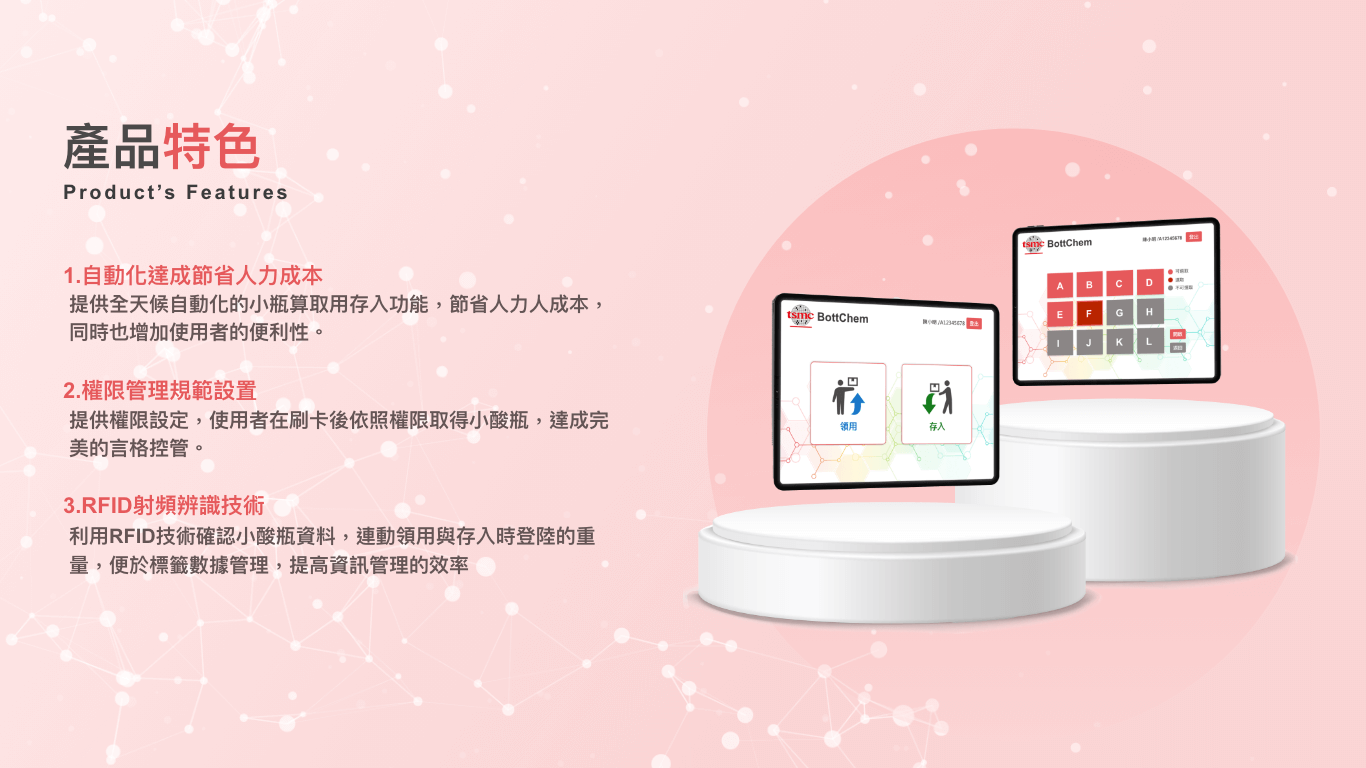
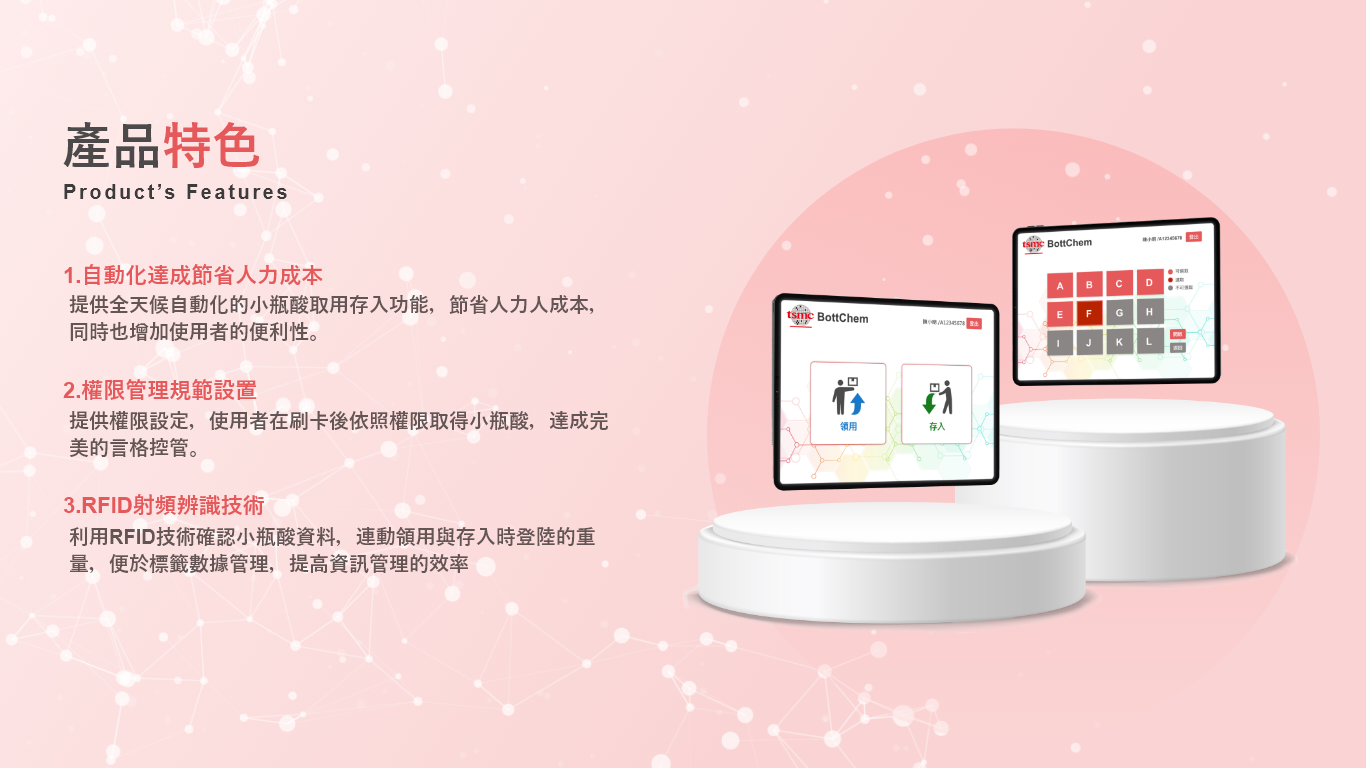
v0721

diff --git a/workPage_bottChem.html b/workPage_bottChem.html
@@ -57,9 +57,9 @@
 						<p>隨著科技日新月異的發展，減少人事成本、效益最大化已是企業管理追求經濟效益的首要目標之一，小瓶酸系統多用於研發室與實驗室管理特殊原料﹝如：酸類、高化學反應液體﹞，利用全自動系統的設計，並結合RFID 的技術，達成安全的24小時使用者領存控管。</p>
 						<h2>產品介紹</h2>
 						<h3>1.自動化達成節省人力成本</h3>
-						<p>提供全天候自動化的小瓶算取用存入功能，節省人力人成本，同時也增加使用者的便利性。</p>
+						<p>提供全天候自動化的小瓶酸取用存入功能，節省人力人成本，同時也增加使用者的便利性。</p>
 						<h3>2.權限管理規範設置</h3>
-						<p>提供權限設定，使用者在刷卡後依照權限取得小酸瓶，達成完美的言格控管。</p>
+						<p>提供權限設定，使用者在刷卡後依照權限取得小瓶酸，達成完美的言格控管。</p>
 						<h3>3.RFID射頻辨識技術</h3>
 						<p>利用RFID技術確認小酸瓶資料，連動領用與存入時登陸的重量，便於標籤數據管理，提高資訊管理的效率</p>
 					</div>
